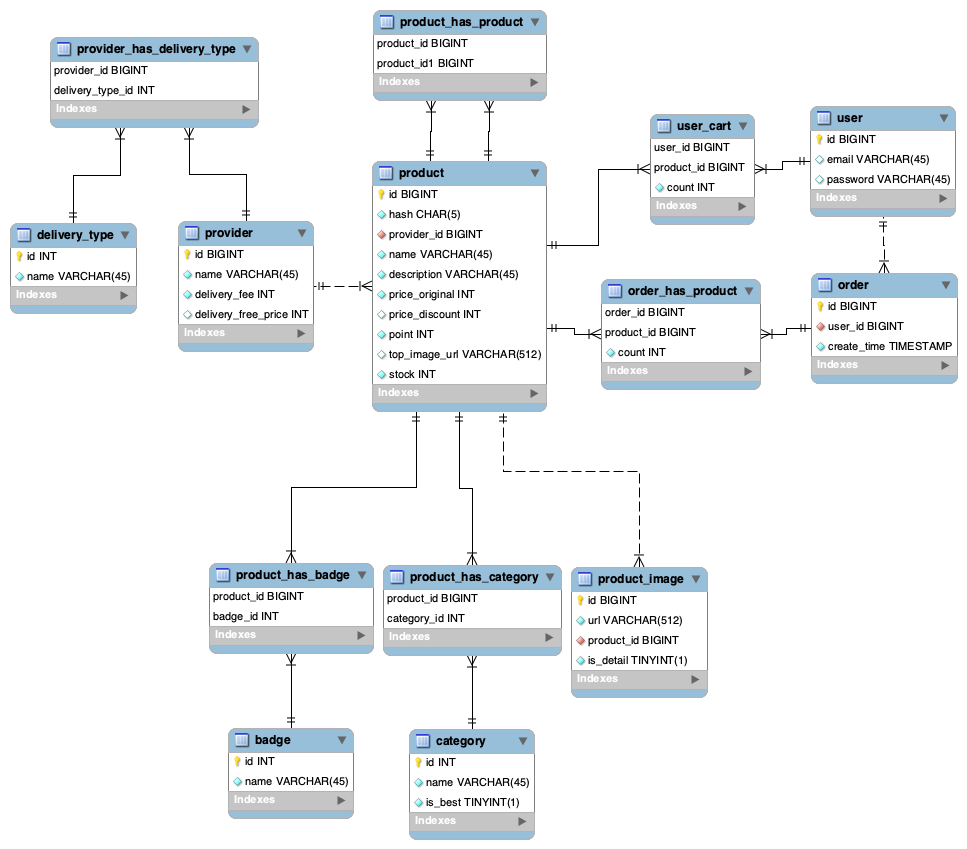
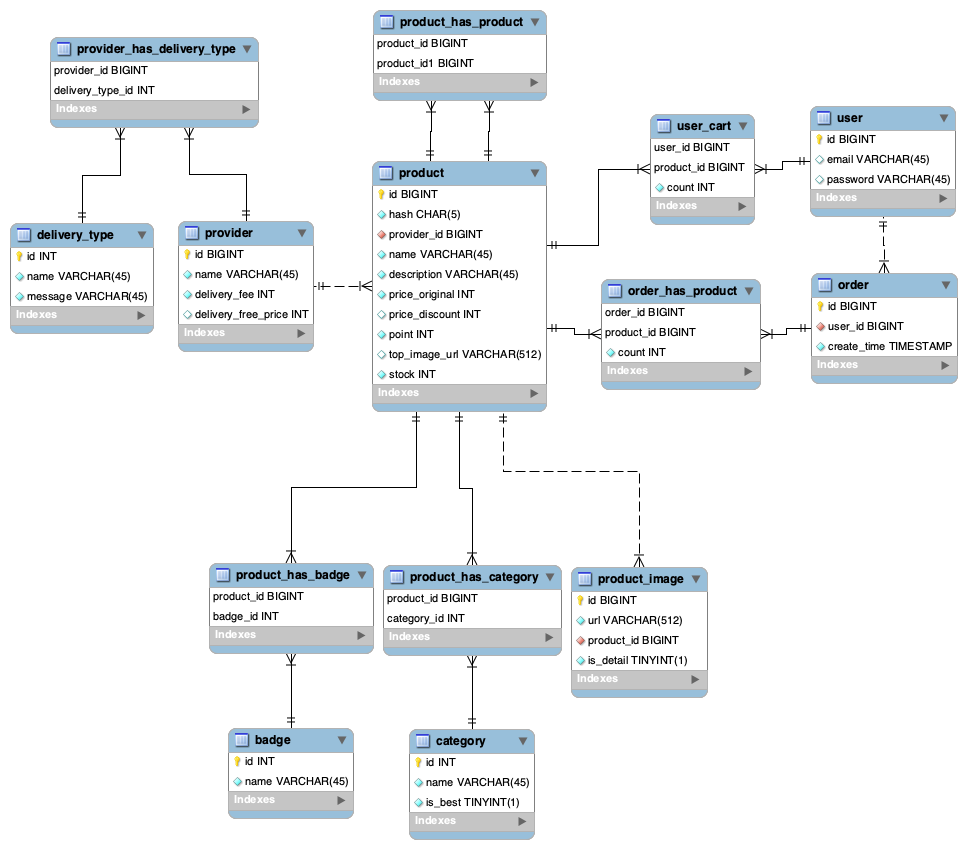
[#12] feat: Add message column to delivery_type table
delivery_type 테이블에 message를 추가했습니다.

Changed region(s): [[0.0, 0.3369, 0.1551, 0.3981], [0.1241, 0.245, 0.1551, 0.3062], [0.062, 0.245, 0.0931, 0.2756]]

diff --git a/BE/sidedish/src/main/java/team16/dummy/DummyService.java b/BE/sidedish/src/main/java/team16/dummy/DummyService.java
@@ -76,13 +76,13 @@ public class DummyService {
         return category;
     }
 
-    private DeliveryType addDeliveryType(String name) {
+    private DeliveryType addDeliveryType(String name, String message) {
         DeliveryType existDeliveryType = deliveryTypeRepository.findByName(name).orElse(null);
         if (existDeliveryType != null) {
             return existDeliveryType;
         }
 
-        DeliveryType deliveryType = deliveryTypeRepository.save(new DeliveryType(name));
+        DeliveryType deliveryType = deliveryTypeRepository.save(new DeliveryType(name, message));
         return deliveryType;
     }
 
@@ -110,7 +110,7 @@ public class DummyService {
             Provider provider = addProvider(new Provider(simpleData.getProvider(), 2500, 40000));
             if (simpleData.getDelivery_type() != null) {
                 for (String deliveryTypeName : simpleData.getDelivery_type()) {
-                    DeliveryType deliveryType = addDeliveryType(deliveryTypeName);
+                    DeliveryType deliveryType = addDeliveryType(deliveryTypeName, "");
 
                     provider.addDeliveryTypeRef(new DeliveryTypeRef(deliveryType.getId()));
                 }

diff --git a/BE/sidedish/src/test/java/team16/sidedish/repository/lookup/DeliveryTypeRepositoryTest.java b/BE/sidedish/src/test/java/team16/sidedish/repository/lookup/DeliveryTypeRepositoryTest.java
@@ -21,7 +21,7 @@ class DeliveryTypeRepositoryTest {
     @Test
     @DisplayName("DeliveryType save 테스트")
     public void save() {
-        DeliveryType deliveryType = new DeliveryType("퀵배송");
+        DeliveryType deliveryType = new DeliveryType("퀵배송", "빠른 퀵배송이 가능합니다");
         deliveryType = deliveryTypeRepository.save(deliveryType);
         Assertions.assertThat(deliveryType.getId()).isNotNull();
     }

diff --git a/BE/sidedish/src/main/java/team16/sidedish/domain/entity/lookUp/DeliveryType.java b/BE/sidedish/src/main/java/team16/sidedish/domain/entity/lookUp/DeliveryType.java
@@ -13,7 +13,12 @@ public class DeliveryType {
 
     private String name;
 
-    public DeliveryType(String name) {
+    private String message;
+
+    public DeliveryType(String name, String message) {
         this.name = name;
+        this.message = message;
     }
+
+
 }
